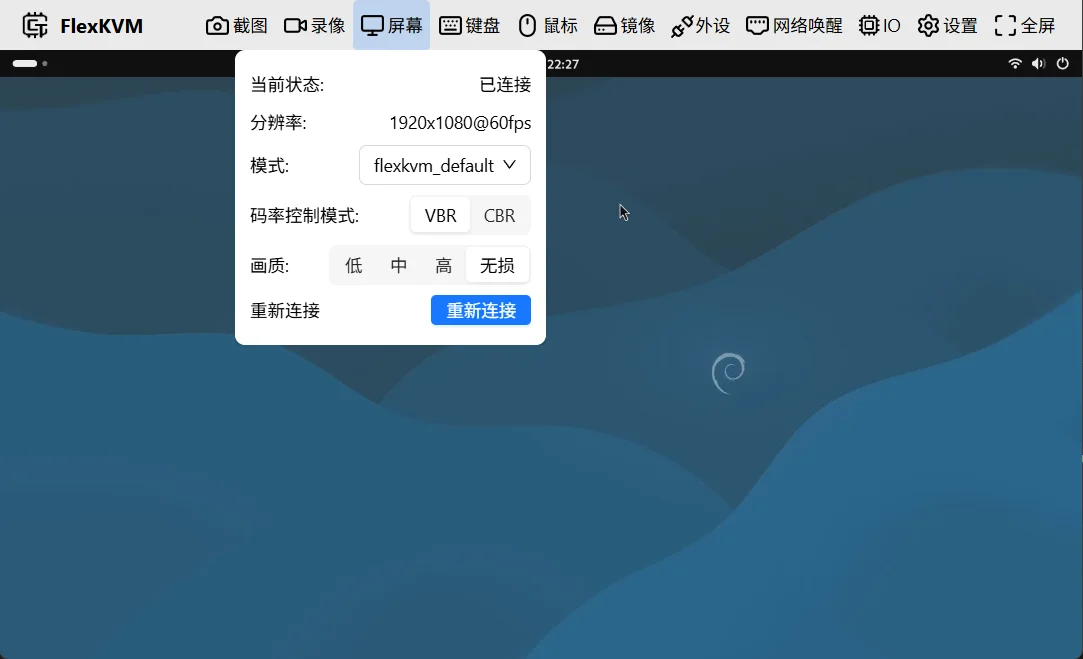
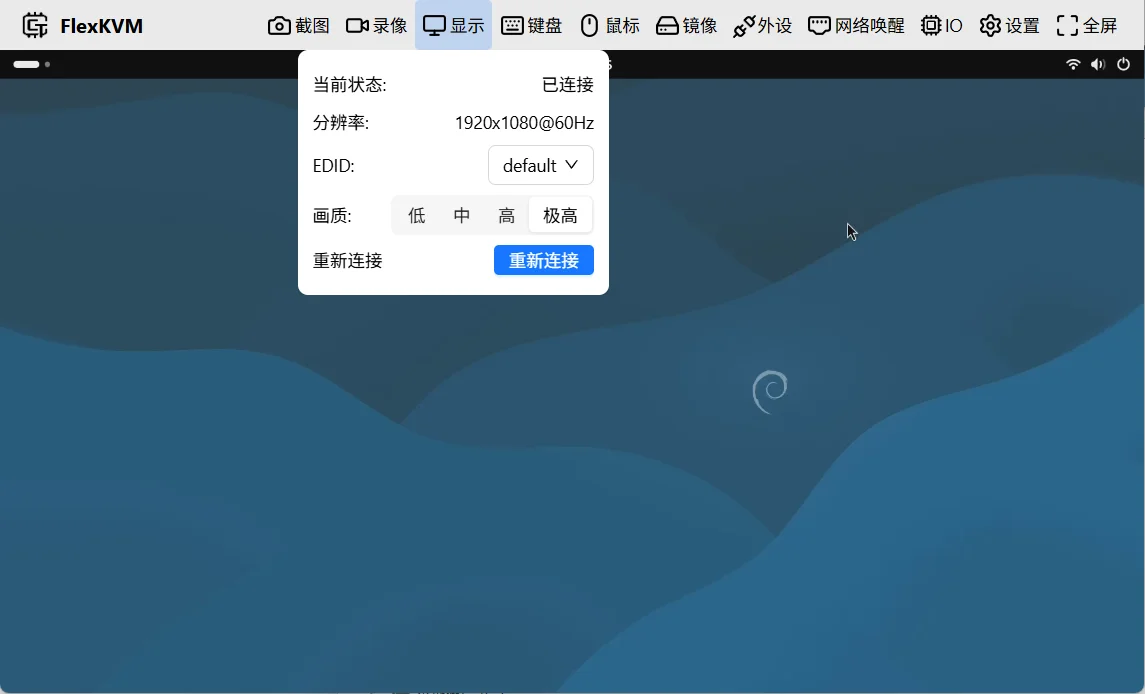
docs: 完善远程控制（键盘/鼠标）文档及配图

Changed region(s): [[0.0, 0.0, 1.0, 0.5463], [0.9751, 0.9712, 1.0, 1.0]]

diff --git a/Docs/docs/guide/remote/keyboard.md b/Docs/docs/guide/remote/keyboard.md
@@ -1,6 +1,6 @@
 # 键盘
 
-![键盘按键](./images/keyboard/web-keyboard-button.webp)
+![键盘按键](./images/keyboard/keyboard_ui.webp)
 
 - 上图菜单栏中的红色框框为键盘按键，左边的图标为一个简化的键盘图标，当前图标表示为键盘正常运行。
 
@@ -8,15 +8,11 @@
 
 键盘按键的图标会根据当前键盘状态而改变，会有已连接和未连接两种状态。
 
-![键盘按键区别](./images/keyboard/web-keyboard-button-diff.webp)
-
-如上图所示，左边的图标表示键盘已连接，右边的图标表示键盘未连接。
-
 ## 键盘菜单
 
 在菜单栏中，点击键盘按键会弹出键盘菜单，如下图所示：
 
-![键盘菜单](./images/keyboard/web-keyboard-menu.webp)
+![键盘菜单](./images/keyboard/keyboard_button.webp)
 
 可以看到，屏幕菜单中包含了以下选项：
 
@@ -52,7 +48,7 @@
 
 默认是收起的状态，点击之后会展开，如下图所示：
 
-![粘贴文本](./images/keyboard/web-keyboard-paste-text.webp)
+![粘贴文本](./images/keyboard/paste.webp)
 
 会有一个输入框，你可以在输入框中添加你想要粘贴的文本，然后点击粘贴按钮，即可将文本粘贴到被控机器上。
 
@@ -62,7 +58,7 @@
 
 默认是收起的状态，点击之后会展开，如下图所示：
 
-![快捷键](./images/keyboard/web-keyboard-shortcut.webp)
+![快捷键](./images/keyboard/shotcut.webp)
 
 快捷键会根据"被控系统"的不同而发生改变，请选择你当前被控主机的系统。
 
@@ -73,7 +69,7 @@
 
 快捷键悬浮窗是这样的：
 
-![快捷键悬浮窗](./images/keyboard/web-keyboard-shortcut-window.webp)
+![快捷键悬浮窗](./images/keyboard/shotcut_float.webp)
 
 - 标题栏显示当前快捷键对应的系统
 - 按住标题栏可以拖动快捷键悬浮窗
@@ -83,7 +79,7 @@
 
 点击之后，显示画面中会弹出一个虚拟键盘，如下图所示：
 
-![虚拟键盘](./images/keyboard/web-keyboard-virtual-keyboard.webp)
+![虚拟键盘](./images/keyboard/keyboard_float.webp)
 
 虚拟键盘有两种模式：
 

diff --git a/Docs/docs/guide/remote/mouse.md b/Docs/docs/guide/remote/mouse.md
@@ -1,6 +1,6 @@
 # 鼠标
 
-![鼠标按键](./images/mouse/web-mouse-button.webp)
+![鼠标按键](./images/mouse/mouse_ui.webp)
 
 - 上图菜单栏中的红色框框为鼠标按键，左边的图标为一个简化的鼠标图标，当前图标表示为鼠标正常运行。
 
@@ -8,15 +8,11 @@
 
 鼠标按键的图标会根据当前鼠标状态而改变，会有已连接和未连接两种状态。
 
-![鼠标按键区别](./images/mouse/web-mouse-button-diff.webp)
-
-如上图所示，左边的图标表示鼠标已连接，右边的图标表示鼠标未连接。
-
 ## 鼠标菜单
 
 在菜单栏中，点击鼠标按键会弹出鼠标菜单，如下图所示：
 
-![鼠标菜单](./images/mouse/web-mouse-menu.webp)
+![鼠标菜单](./images/mouse/mouse_button.webp)
 
 可以看到，屏幕菜单中包含了以下选项：
 
@@ -67,6 +63,8 @@
 - 仅适合单屏幕使用，如果受控主机有多个屏幕，受控主机的鼠标不会和画面中的鼠标同步。
 - 在远程主机上面玩游戏又可能会不兼容这个模式，因为游戏会检测鼠标的移动，如果鼠标移动和画面中的鼠标不一致，游戏会认为鼠标被外接，会断开游戏，所以不建议在远程主机上玩游戏。
 
+![绝对模式](./images/mouse/mouse_abs.webp)
+
 **鼠标隐藏**
 
 启用之后，当鼠标移动到网页的非菜单栏区域时，鼠标会自动隐藏，这样可以避免远程画面中出现两个鼠标指针。
@@ -87,6 +85,8 @@
 
 - 操作起来稍微麻烦一点，需要点击画面，然后移动鼠标，退出的话需要按`Esc`键。
 - 鼠标移动的精准度受鼠标dpi的影响，如果dpi太低，鼠标移动的速度会变慢，dpi太高，鼠标移动的速度会变快。
+
+![相对模式](./images/mouse/mouse_rel.webp)
 
 **灵敏度**
 
